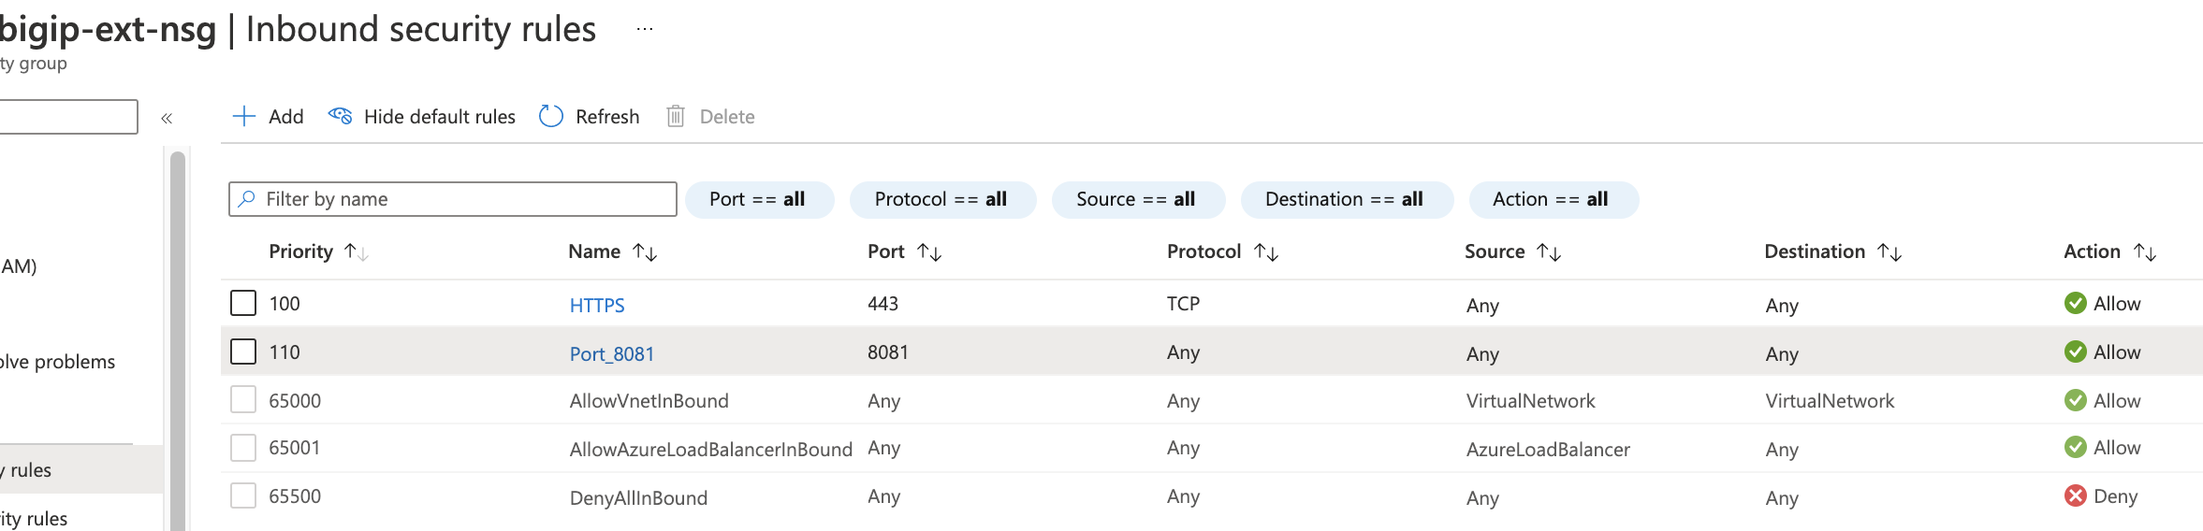
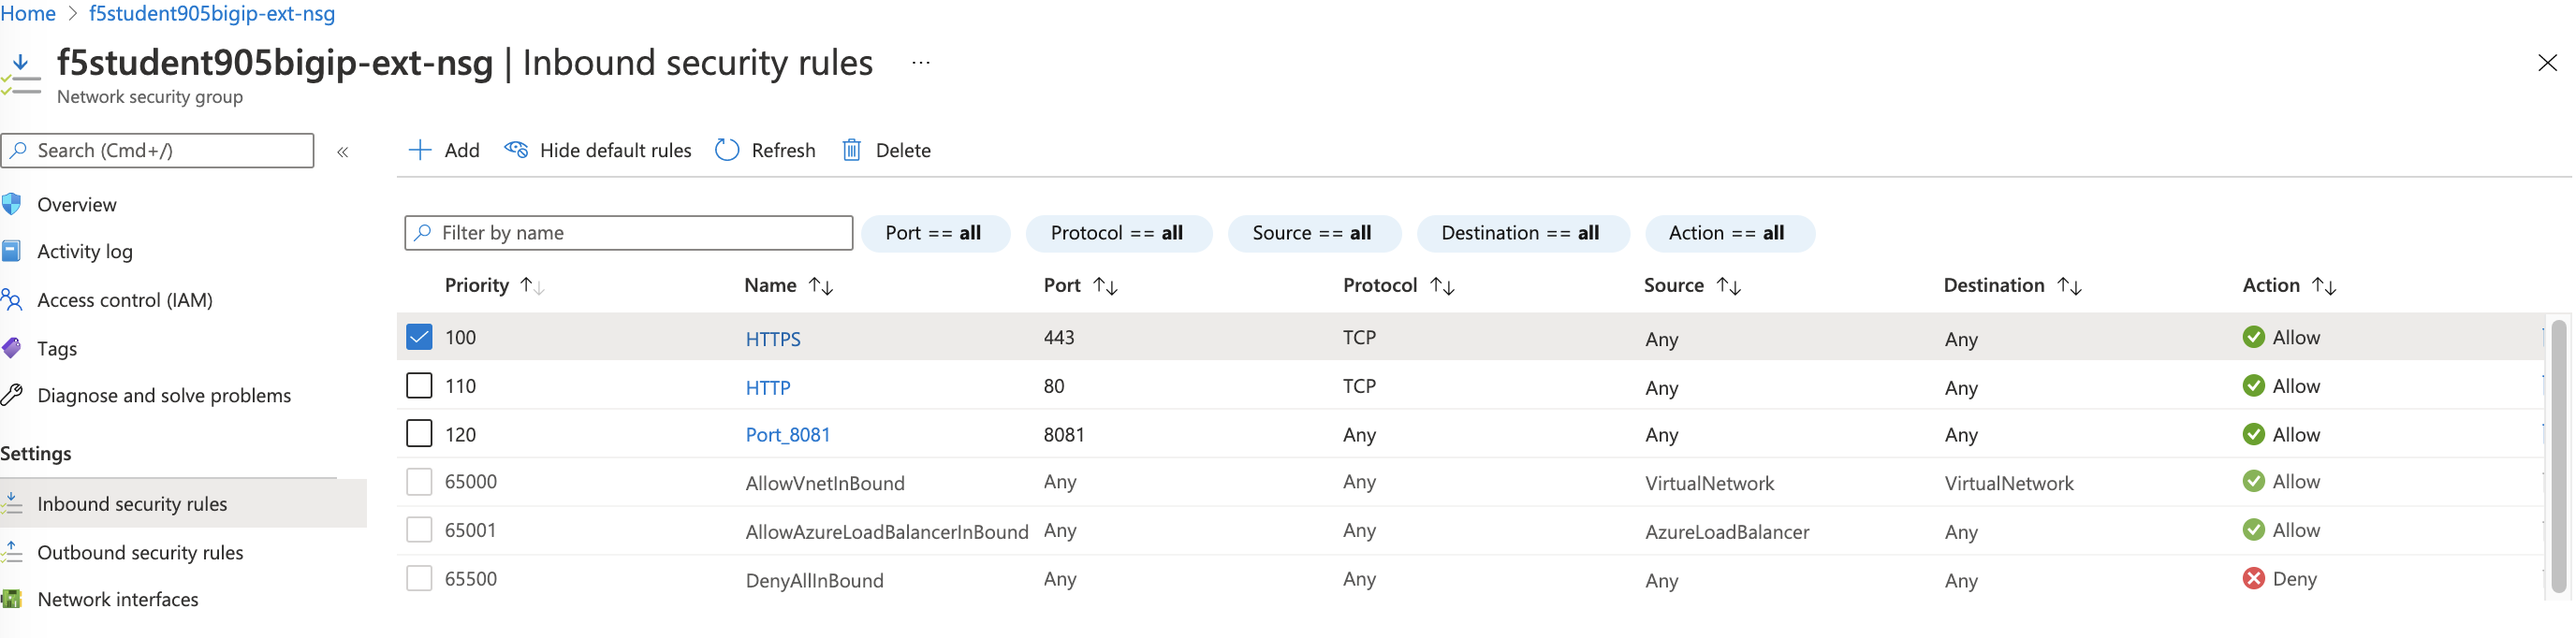
update nsg images

diff --git a/docs/class01/deploy-azure.rst b/docs/class01/deploy-azure.rst
@@ -38,7 +38,7 @@ Launch BIG-IP 3nic stack
    +------------------------+--------------------------+
    | Instance Name          | f5student#-f5vm01        |
    +------------------------+--------------------------+
-   | Number of External IPs | 3                        |                      
+   | Number of External IPs | 1                        |                      
    +------------------------+--------------------------+
    | Image Name             | Best25Mbps               |
    +------------------------+--------------------------+
@@ -58,9 +58,24 @@ Launch BIG-IP 3nic stack
 
 #. Update Azure Network Security Group to allow required app ports
 
-   - browse to Azure portal and select **f5student#-rg** to view objects in your resource group
-   - search for **nsg** and select **f5student#-rg-ext-nsg** to view inbound and outbound rules
-   - click **Add** to **HTTPS** and **8081** to allow service ports **443** and **8081**
+   - click on **f5student#-rg-ext-nsg** to view inbound and outbound rules
+
+   .. image:: ./images/selectnsg.png
+     :height: 250px
+
+   - click on **inbound security rules** to view inbound rules
+
+   .. image:: ./images/selectinbound.png
+     :height: 250px
+
+   - click **Add** and fill in table on right to allow **HTTPS** then click **Add** on bottom right
+
+   .. image:: ./images/inboundnsg.png
+     :height: 250px
+
+   - repeat steps above to allow **HTTP** and **8081**
+
+   - final network security group should appear similar to image below
 
    .. image:: ./images/extnsg.png
      :height: 250px

diff --git a/docs/class01/update-parent.rst b/docs/class01/update-parent.rst
@@ -30,3 +30,11 @@ In this short lab you will update the parent policy.  This will both demonstrate
 
       Staging allows the WAF administrator to review violations for new policy elements without actually blocking requests, thus lowering the chance of false positives affecting users.
 
+#. Wrap up and delete resource group
+
+   - browse to Azure **f5student#-rg** and select **"Delete resource group"**
+   - enter **f5student#-rg** and select **Delete** to confirm deletion of resource group
+   
+.. image:: .//images/deleterg.png
+   
+   
